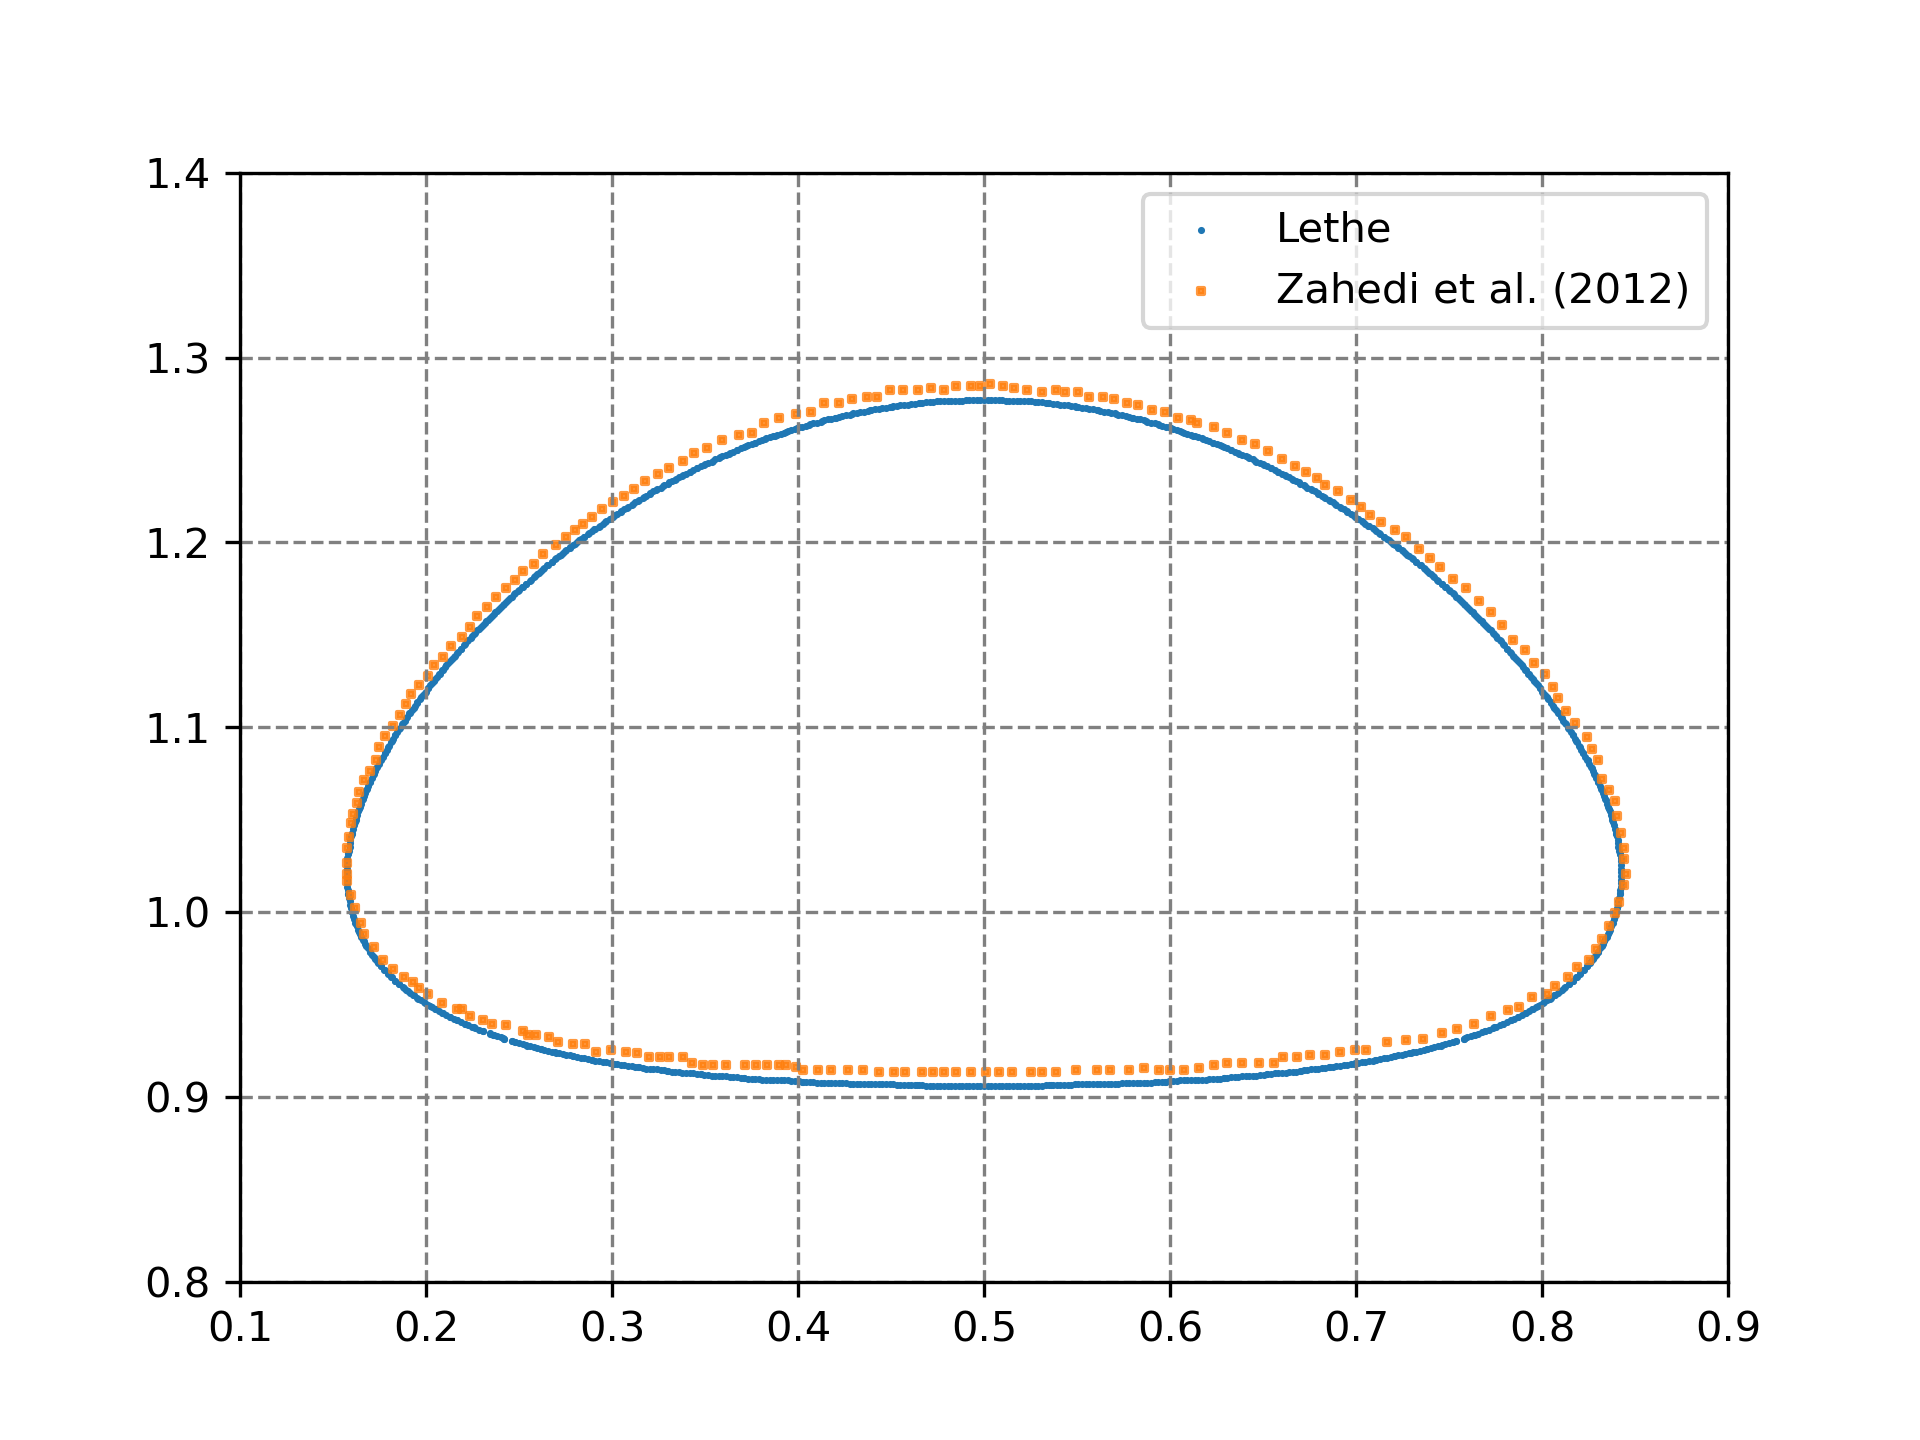
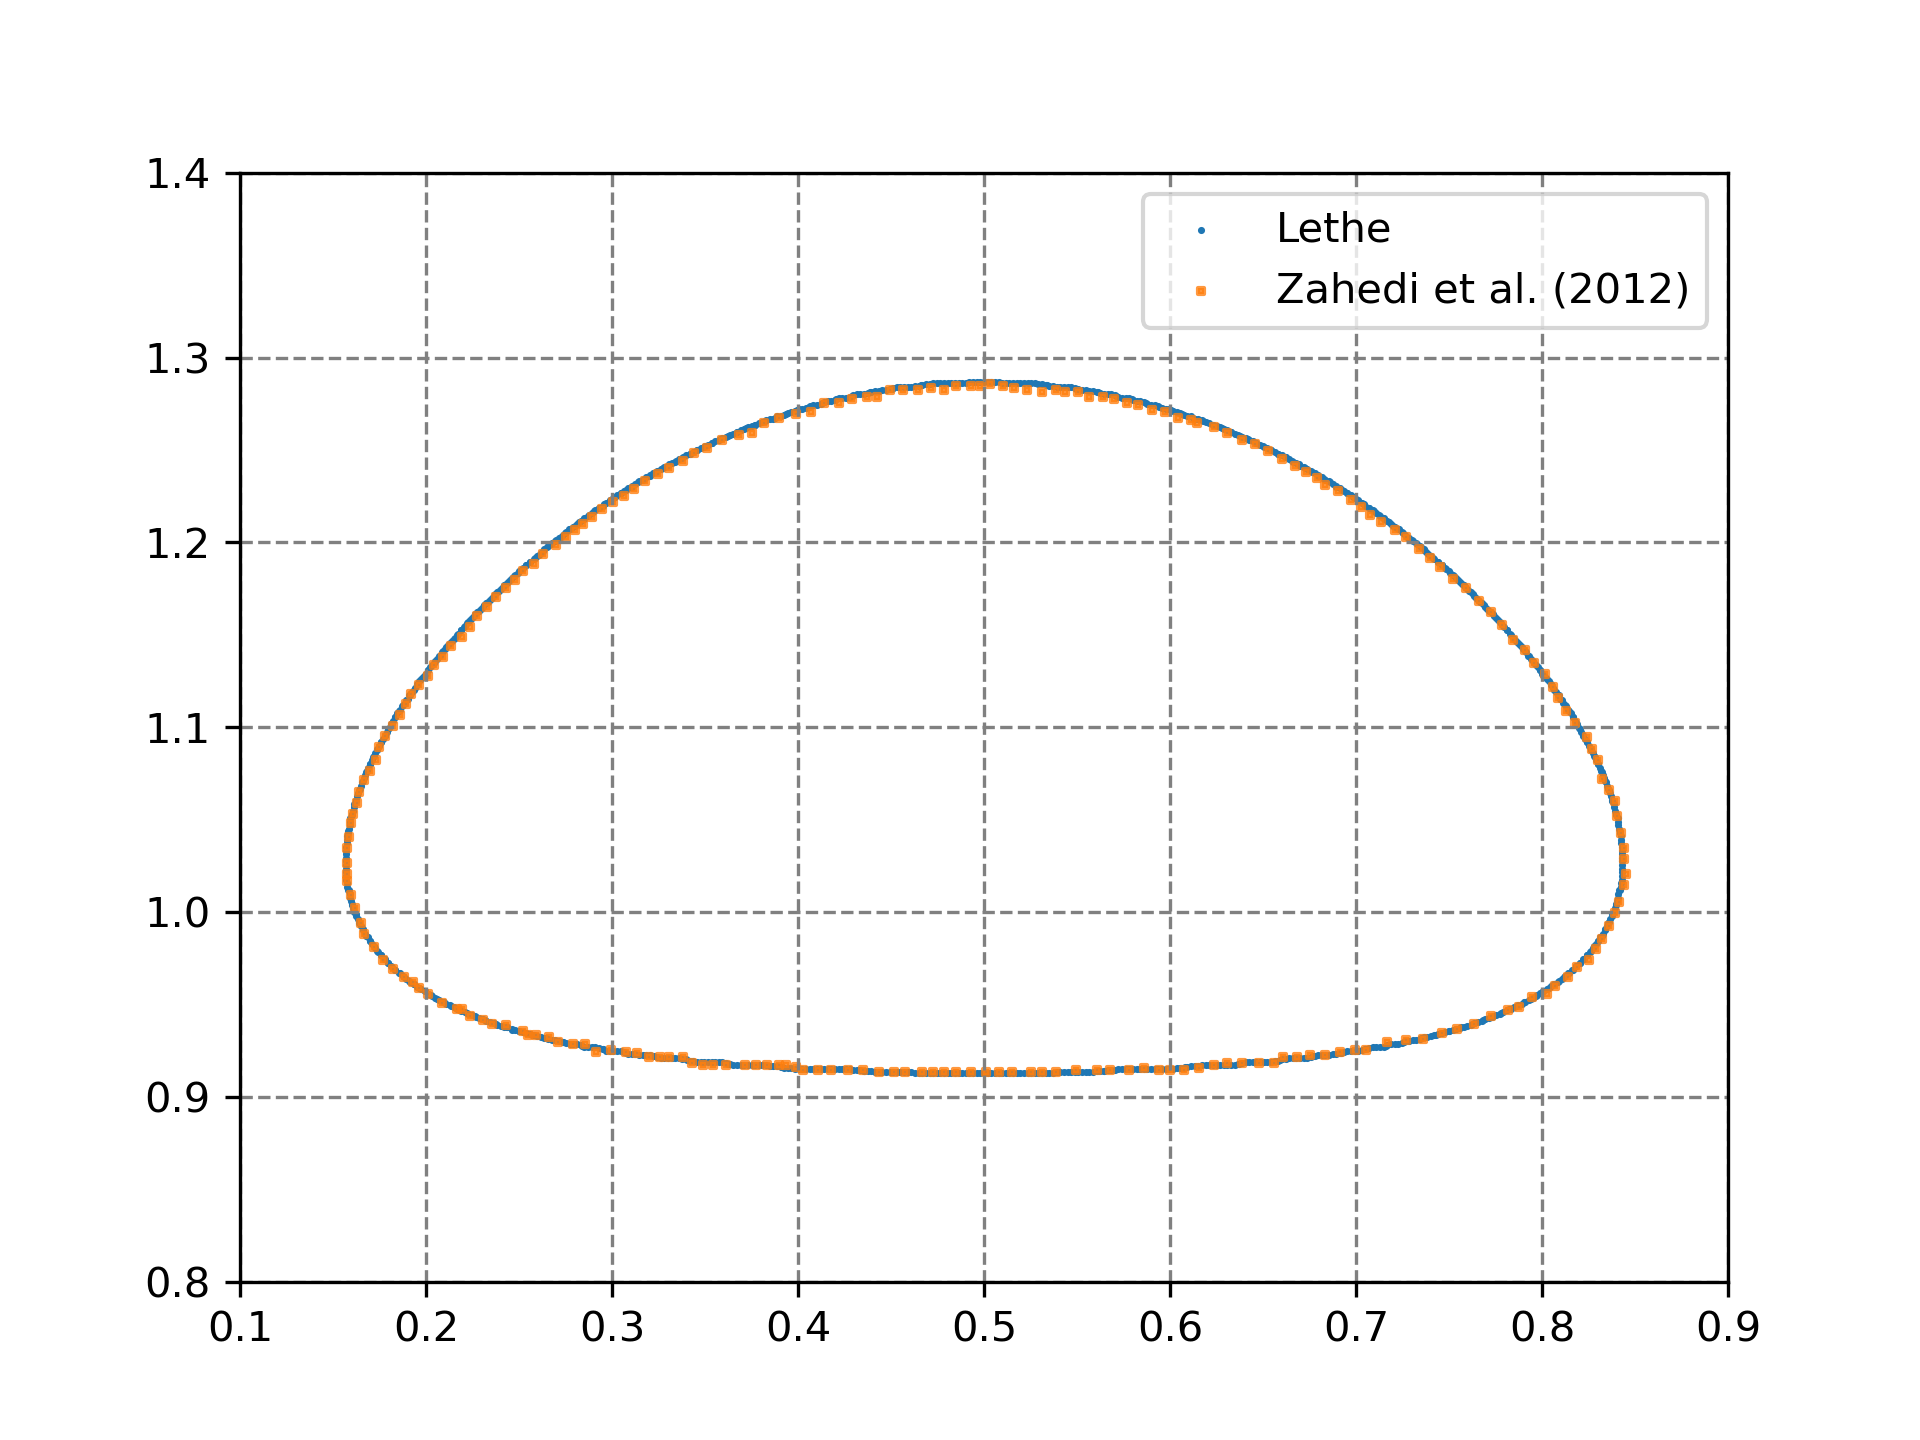
Add feature for last output and fix example results

diff --git a/source/core/simulation_control.cc b/source/core/simulation_control.cc
@@ -304,16 +304,19 @@ bool
 SimulationControlTransient::is_output_iteration()
 {
   // If iteration control the only options are to not print or at certain
-  // frequency of iterations for the time interval given
+  // frequency of iterations for the time interval given. In this mode, we also
+  // always output the last iteration in the simulation.
   if (output_control == Parameters::SimulationControl::OutputControl::iteration)
     {
       if (output_iteration_frequency == 0)
         return false;
       else
         {
-          // Check if the current step number matches the output frequency and
-          // the time interval
-          return (get_step_number() % output_iteration_frequency == 0 &&
+          // Check if the current step number matches the following condition:
+          // (The step number matches the output frequency OR is the last
+          // tiem-step) AND the current time is within the output time interval
+          return ((get_step_number() % output_iteration_frequency == 0 ||
+                   is_at_end()) &&
                   get_current_time() >= output_time_interval[0] &&
                   get_current_time() <= output_time_interval[1]);
         }

diff --git a/CHANGELOG.md b/CHANGELOG.md
@@ -8,6 +8,11 @@ The format is based on [Keep a Changelog](http://keepachangelog.com/).
 ### Added
 
 - MINOR Addition of the explicit template instantiations for the PropertiesIndex of multiphysic DEM simulations. They are added to all files where there were already DEMProperties template instantiations. [#1469](https://github.com/chaos-polymtl/lethe/pull/1469)
+## [Master] - 2025-03-25
+
+### Added
+
+- MINOR Changed the simulation control to ensure that for transient simulation the last time-step is always written to a vtu file. Used this opportunity to improve the results for the rising bubble since the contour we were using to compare to the reference solution was not always the last output. Finally, changed the rising bubble example to use the BDF2 time integration instead of BDF1 [#1471](https://github.com/chaos-polymtl/lethe/pull/1471).
 
 ## [Master] - 2025-03-21
 

diff --git a/doc/source/examples/multiphysics/rising-bubble/rising-bubble.rst b/doc/source/examples/multiphysics/rising-bubble/rising-bubble.rst
@@ -61,7 +61,7 @@ Time integration is handled by a 1st order backward differentiation scheme (``bd
 .. code-block:: text
 
     subsection simulation control
-      set method           = bdf1
+      set method           = bdf2
       set time end         = 3
       set time step        = 0.001
       set adapt            = true

diff --git a/doc/source/parameters/cfd/simulation_control.rst b/doc/source/parameters/cfd/simulation_control.rst
@@ -89,7 +89,7 @@ This subsection is the most important in a simulation and therefore, the most co
     set output times = -1
   
     # Output time interval
-    set output time interval = 1, 1.7e308
+    set output time interval = 0, 1.7e308
   
     # Maximum number of vtu output files
     set group files = 1
